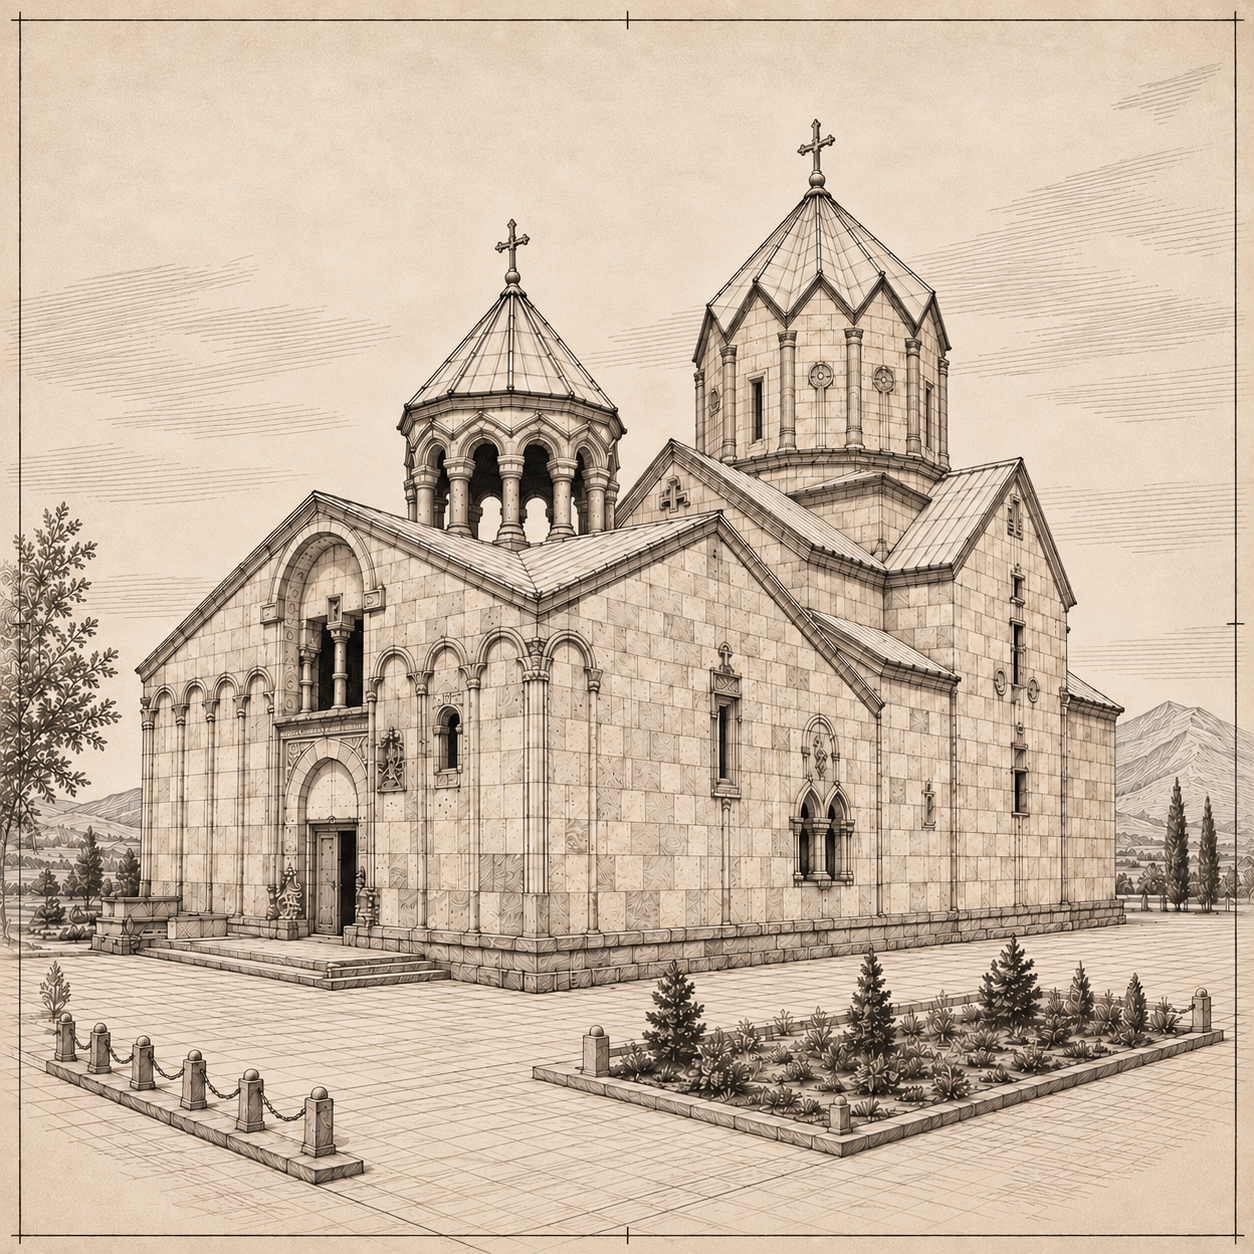
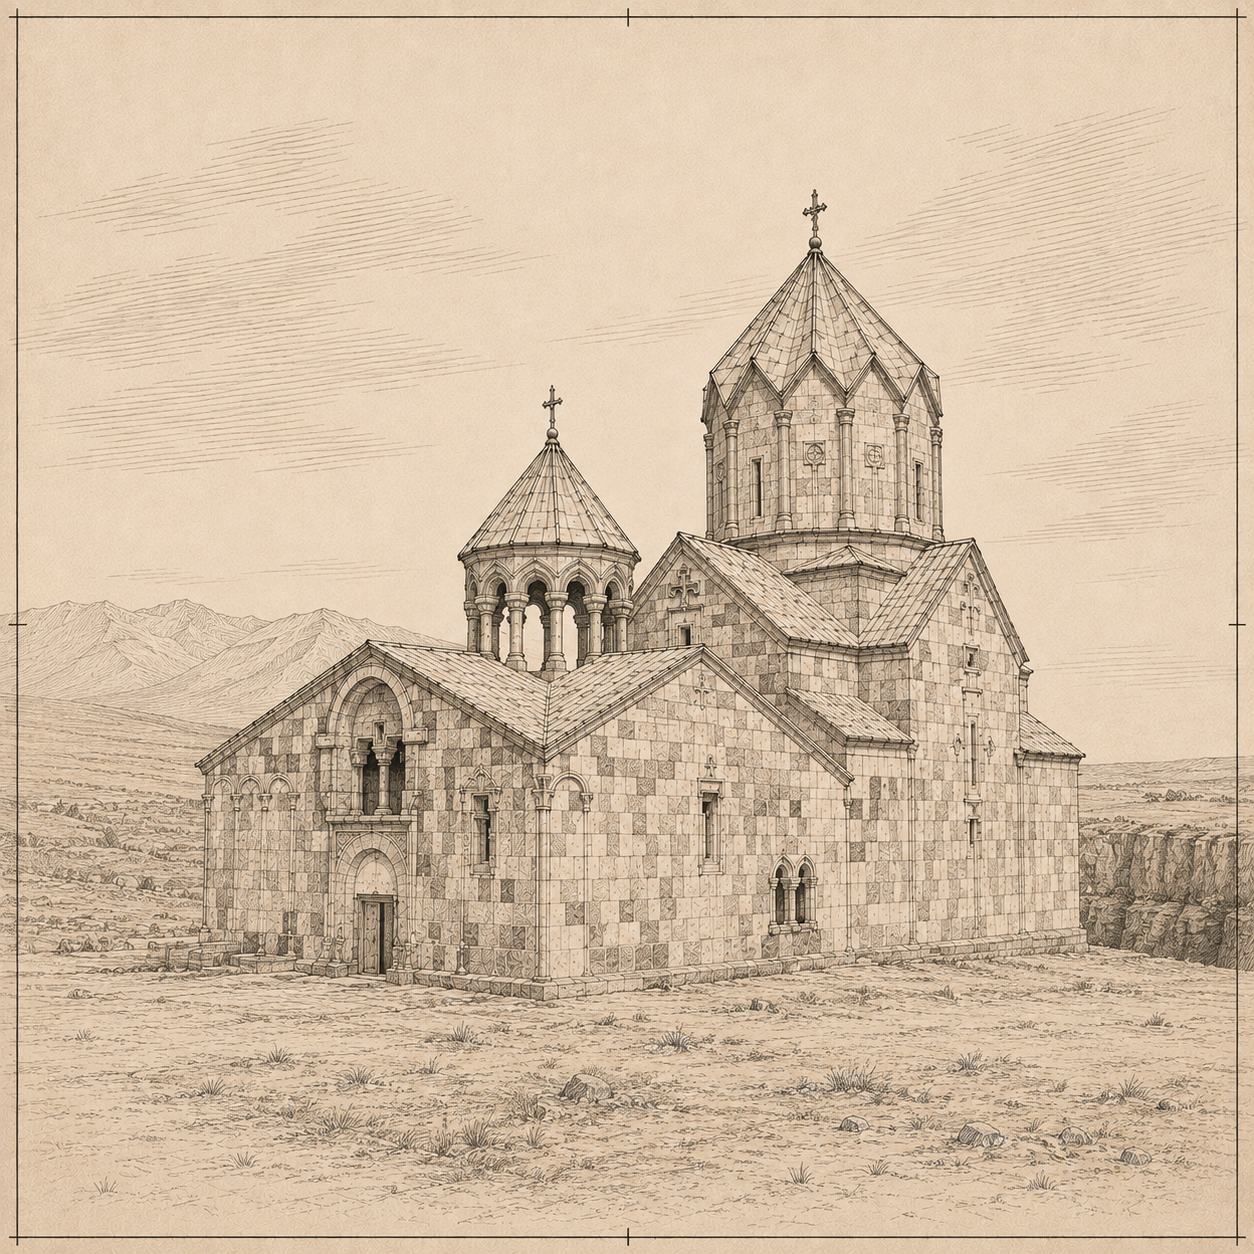
Updated

diff --git a/src/config/weddingConfig.js b/src/config/weddingConfig.js
@@ -1,7 +1,9 @@
 // Edit this file to update the invitation content without changing the page layout.
 import elenlyovImage from '../assets/pics/elenlyov.jpg';
-import homeImage from '../assets/pics/home.png';
+import homeImage from '../assets/pics/bribehouse.png';
+import groomHouseImage from '../assets/pics/groomhouse.png';
 import churchImage from '../assets/pics/church.png';
+import zagsImage from '../assets/pics/zags.png';
 import restorantImage from '../assets/pics/restorant.png';
 
 export const weddingConfig = {
@@ -26,12 +28,12 @@ export const weddingConfig = {
   calendar: { kicker: 'Our Day', heading: 'Սիրելի՛ Հյուրեր,', description: 'Սիրով հրավիրում ենք Ձեզ ներկա գտնվելու մեր հարսանյաց արարողությանը։ Ծանոթացեք օրվա ծրագրին և հաստատեք Ձեր ներկայությունը։', weekdays: ['Երկ', 'Երք', 'Չոր', 'Հնգ', 'Ուրբ', 'Շաբ', 'Կիր'] },
   gallery: { image: '/pics/elenlyov.jpg', imageAlt: 'Էլենի և Լյովայի լուսանկարը' },
   location: { kicker: 'Վայրը', heading: 'Location', emphasis: 'for you', description: 'Մեզ համար կարևոր յուրաքանչյուր պահը կանցկացնենք գեղեցիկ և սիրելի վայրերում։', mapButtonText: 'Քարտեզ' },
-  timing: { kicker: 'Ժամանակացույց', heading: 'Timing', emphasis: 'special' },
+  timing: { kicker: 'Օրվա ծրագիր', heading: 'Timing', emphasis: 'special' },
   events: [
-    { id: 'groom-house', number: '01', title: 'Փեսայի տուն', time: '11:00', venue: 'Հավաքվում ենք միասին', address: 'Հասցեն կավելացվի ավելի ուշ', mapUrl: 'https://www.google.com/maps/search/?api=1&query=Groom%27s+home+Armenia', image: '/pics/home.png', imageAlt: 'Փեսայի տան նկարազարդում', enabled: true },
-    { id: 'bride-house', number: '02', title: 'Հարսի տուն', time: '12:00', venue: 'Հավաքվում ենք միասին', address: 'Հասցեն կավելացվի ավելի ուշ', mapUrl: 'https://www.google.com/maps/search/?api=1&query=Bride%27s+home+Armenia', image: '/pics/home.png', imageAlt: 'Հարսի տան նկարազարդում', enabled: true },
+    { id: 'groom-house', number: '01', title: 'Փեսայի տուն', time: '11:00', venue: 'Հավաքվում ենք միասին', address: 'Հասցեն կավելացվի ավելի ուշ', mapUrl: 'https://www.google.com/maps/search/?api=1&query=Groom%27s+home+Armenia', image: '/pics/groomhouse.png', imageAlt: 'Փեսայի տան նկարազարդում', enabled: true },
+    { id: 'bride-house', number: '02', title: 'Հարսի տուն', time: '12:00', venue: 'Հավաքվում ենք միասին', address: 'Հասցեն կավելացվի ավելի ուշ', mapUrl: 'https://www.google.com/maps/search/?api=1&query=Bride%27s+home+Armenia', image: '/pics/bribehouse.png', imageAlt: 'Հարսի տան նկարազարդում', enabled: true },
     { id: 'church', number: '03', title: 'Պսակադրության արարողություն', time: '15:00', venue: 'Սուրբ Հռիփսիմե եկեղեցի', address: 'Վաղարշապատ, Արմավիրի մարզ', mapUrl: 'https://www.google.com/maps/search/?api=1&query=Saint+Hripsime+Church+Vagharshapat', image: '/pics/church.png', imageAlt: 'Սուրբ Հռիփսիմե եկեղեցու նկարազարդում', enabled: true },
-    { id: 'zags', number: '04', title: 'Ամուսնության գրանցում', time: '16:00', venue: 'Սուրբ Հռիփսիմե եկեղեցի', address: 'Վաղարշապատ, Արմավիրի մարզ', mapUrl: 'https://www.google.com/maps/search/?api=1&query=Saint+Hripsime+Church+Vagharshapat', image: '/pics/church.png', imageAlt: 'Սուրբ Հռիփսիմե եկեղեցու նկարազարդում', enabled: true },
+    { id: 'zags', number: '04', title: 'Ամուսնության գրանցում', time: '16:00', venue: 'Սուրբ Հռիփսիմե եկեղեցի', address: 'Վաղարշապատ, Արմավիրի մարզ', mapUrl: 'https://www.google.com/maps/search/?api=1&query=Saint+Hripsime+Church+Vagharshapat', image: '/pics/zags.png', imageAlt: 'Սուրբ Հռիփսիմե եկեղեցու նկարազարդում', enabled: true },
     { id: 'reception', number: '05', title: 'Հարսանյանց հանդիսություն', time: '17:00', venue: 'Արարատ Հոլ', address: 'Հասցեն կավելացվի ավելի ուշ', mapUrl: 'https://www.google.com/maps/search/?api=1&query=Ararat+Hall+Armenia', image: '/pics/restorant.png', imageAlt: 'Ռեստորանի նկարազարդում', enabled: true },
   ],
   countdown: { heading: 'Մնացել է․․․', labels: { days: 'ՕՐ', hours: 'ԺԱՄ', minutes: 'ՐՈՊԵ', seconds: 'ՎՐԿ' } },
@@ -54,9 +56,11 @@ export const weddingConfig = {
 weddingConfig.cover.image = elenlyovImage;
 weddingConfig.hero.image = elenlyovImage;
 weddingConfig.gallery.image = elenlyovImage;
-weddingConfig.events[0].image = homeImage;
-weddingConfig.events[1].image = churchImage;
-weddingConfig.events[2].image = restorantImage;
+weddingConfig.events[0].image = groomHouseImage;
+weddingConfig.events[1].image = homeImage;
+weddingConfig.events[2].image = churchImage;
+  weddingConfig.events[3].image = zagsImage;
+weddingConfig.events[4].image = restorantImage;
 weddingConfig.events[2].venue = 'Ադանա ռեստորանային համալիր';
 weddingConfig.events[2].address = 'Ադանա ռեստորանային համալիր';
 weddingConfig.events[2].mapUrl = 'https://www.google.com/maps/search/?api=1&query=Adana+restaurant+complex+Armenia';

diff --git a/src/App.jsx b/src/App.jsx
@@ -11,10 +11,9 @@ import {
 import { useCountdown } from './hooks/useCountdown';
 import { submitRsvp } from './services/rsvpService';
 import { weddingConfig as config } from './config/weddingConfig';
-import loveSymbolImage from './assets/pics/loveSymbol.png';
-import brideIcon from './assets/pics/bride.png';
-import churchIcon from './assets/pics/churchlogo.png';
-import servantIcon from './assets/pics/servant.png';
+import brideIcon from './assets/pics/bribehouse.png';
+import churchIcon from './assets/pics/church.png';
+import servantIcon from './assets/pics/restorant.png';
 import leLogo from './assets/pics/LElogo.png';
 import elenAndLyovLogo from './assets/pics/ElenAndLyovLogopng.png';
 import handsImage from './assets/pics/hands.jpg';
@@ -94,13 +93,13 @@ function WeddingCalendar() {
       <p className="calendar-date-display">{wedding.displayDate}</p>
 
       <div className="calendar-love-symbol" aria-hidden="true">
-        <img src={loveSymbolImage} alt="" loading="lazy" />
+        <Heart size={42} strokeWidth={1.25} />
       </div>
     </section>
   );
 }
 
-function EventCard({ event, mapButtonText }) {
+function EventCard({ event, mapButtonText, minimal = false }) {
   return (
     <article className="event-card">
       <div className="event-media">
@@ -108,10 +107,12 @@ function EventCard({ event, mapButtonText }) {
         <span>{event.number}</span>
       </div>
       <div className="event-content">
-        <p className="event-time"><Clock3 size={17} />{event.time}</p>
         <h3>{event.title}</h3>
-        <p className="event-venue">{event.venue}</p>
-        <p className="event-address"><MapPin size={16} />{event.address}</p>
+        {!minimal && <>
+          <p className="event-time"><Clock3 size={17} />{event.time}</p>
+          <p className="event-venue">{event.venue}</p>
+          <p className="event-address"><MapPin size={16} />{event.address}</p>
+        </>}
         {event.mapUrl && (
           <a className="text-link" href={event.mapUrl} target="_blank" rel="noreferrer">
             {mapButtonText}<ArrowUpRight size={16} />
@@ -340,13 +341,11 @@ export default function App() {
 
         <section className="places-section section" id="places">
           <div className="section-copy">
-            <p className="kicker">{location.kicker}</p>
-            <h2 data-shadow="Location">Location<em>for you</em></h2>
-            <p>{location.description}</p>
+            <h2 data-shadow="Հասցեներ">Հասցեներ</h2>
           </div>
           <div className="event-list">
             {visibleEvents.map(event => (
-              <EventCard event={event} key={event.id} mapButtonText={location.mapButtonText} />
+              <EventCard event={event} key={event.id} mapButtonText={location.mapButtonText} minimal />
             ))}
           </div>
         </section>

diff --git a/src/index.css b/src/index.css
@@ -2794,7 +2794,6 @@ footer {
 
 .timeline-section .section-copy .kicker,
 .timeline-section .section-copy h2 em,
-.timeline-section .section-copy h2[data-shadow]::before,
 .timeline-section .timeline-icon,
 .timeline-section .timeline-list article > span,
 .timeline-section .countdown {
@@ -2805,12 +2804,35 @@ footer {
   display: none !important;
 }
 
-.timeline-section .section-copy h2 {
+.timeline-section .section-copy h2,
+.places-section .section-copy h2 {
   color: var(--charcoal) !important;
   font-family: 'ArTarumianBarakU Bold', sans-serif !important;
   font-size: clamp(3rem, 12vw, 5rem);
   font-weight: 700;
   line-height: 1;
+}
+
+.places-section .section-copy h2[data-shadow]::before {
+  top: -8%;
+  font-family: 'ArTarumianBarakU Bold', sans-serif !important;
+  font-weight: 700;
+}
+
+.places-section .event-content h3 {
+  font-size: 1.8rem;
+}
+
+.places-section .event-content .event-venue,
+.places-section .event-content .event-address {
+  font-size: 1rem;
+}
+
+.timeline-section .section-copy h2[data-shadow]::before {
+  top: -14%;
+  font-family: 'ArTarumianBarakU Bold', sans-serif !important;
+  font-size: 1.2em;
+  font-weight: 700;
 }
 
 .timeline-list {
